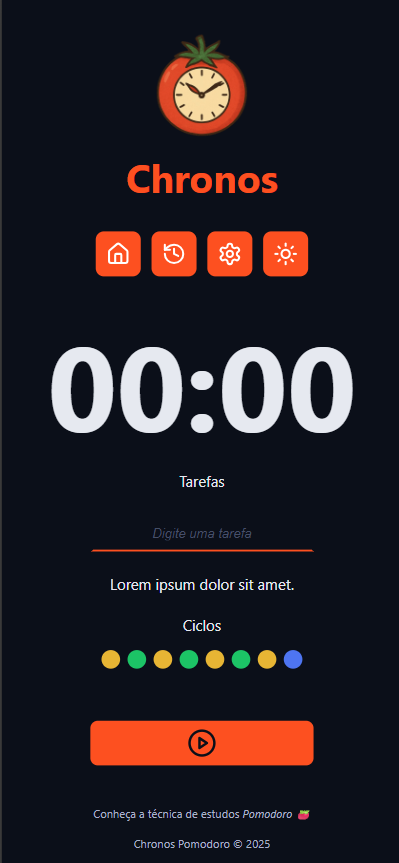
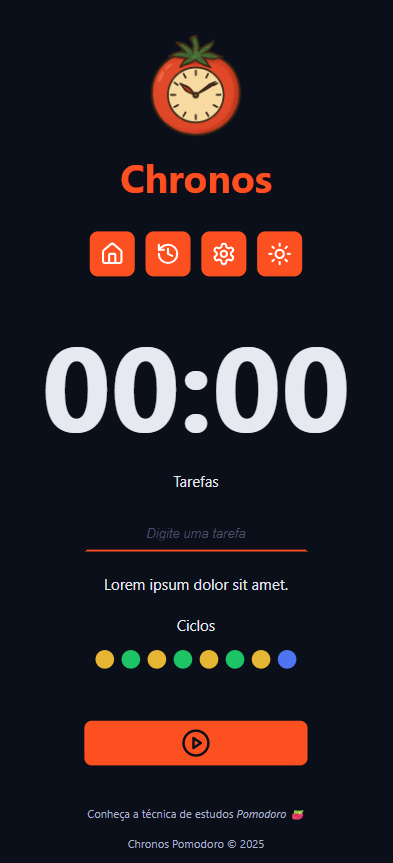
criado contexts separados

diff --git a/src/components/MainForm/index.tsx b/src/components/MainForm/index.tsx
@@ -2,23 +2,35 @@ import { PlayCircleIcon } from "lucide-react";
 import { Cycles } from "../Cycles";
 import { DefaultButton } from "../DefaultButton";
 import { DefaultInput } from "../DefaultInput";
+import { useState } from "react";
+
 
 
 export function MainForm() {
+    const [task, setTask] = useState('')
+
+    function handleCreateNewTask(event: React.FormEvent<HTMLFormElement>) {
+        event.preventDefault()
+    }
+
+
 
     return (
-        <form className="form" action="">
+        <form className="form" action="" onSubmit={handleCreateNewTask}>
             <div className="formRow">
-                <DefaultInput id="input"
+                <DefaultInput 
+                    id="input"
                     type="text"
                     labelText="Tarefas"
                     placeholder="Digite uma tarefa"
+                    value={task}
+                    onChange={e => setTask(e.target.value)}
 
                 />
             </div>
 
             <div className="formRow">
-                <p>Lorem ipsum dolor sit amet.</p>
+                <p>Próximo intervalo é de 25 min.</p>
             </div>
 
             <div className="formRow">

diff --git a/src/contexts/TaskContext/TaskContextProvider.tsx b/src/contexts/TaskContext/TaskContextProvider.tsx
@@ -1,0 +1,15 @@
+import { useState } from "react";
+import { TaskContext } from "./TaskContext";
+import { initialTaskState } from "./InitialTaskState";
+
+type TaskContextProviderProps = {
+    children: React.ReactNode;
+}
+export function TaskContextProvider({children}: TaskContextProviderProps){
+    const [state, setState] = useState(initialTaskState)
+    return (
+        <TaskContext.Provider value={{state, setState}}>
+            {children}
+        </TaskContext.Provider>
+    )
+}

diff --git a/src/contexts/TaskContext/TaskContext.tsx b/src/contexts/TaskContext/TaskContext.tsx
@@ -1,0 +1,17 @@
+import { createContext } from "react";
+import type { TaskStateModel } from "../../models/TaskStateModel";
+import { initialTaskState } from "./InitialTaskState";
+
+
+type TaskContextProps = {
+    state: TaskStateModel,
+    setState: React.Dispatch<React.SetStateAction<TaskStateModel>>
+}
+
+
+export const initialContextValue = {
+    state: initialTaskState,
+    setState: () => { },
+}
+
+export const TaskContext = createContext<TaskContextProps>(initialContextValue)

diff --git a/src/pages/Home/index.tsx b/src/pages/Home/index.tsx
@@ -3,12 +3,14 @@ import { CountDown } from "../../components/CountDown";
 import { MainForm } from "../../components/MainForm";
 import { MainTemplate } from "../../templates/MainTemplate";
 
-export function Home() {
 
+
+export function Home() {
+    
     return (
         <MainTemplate>
             <Container>
-                <CountDown />
+                <CountDown/>
             </Container>
 
             <Container>

diff --git a/src/contexts/TaskContext/InitialTaskState.ts b/src/contexts/TaskContext/InitialTaskState.ts
@@ -1,0 +1,14 @@
+import type { TaskStateModel } from "../../models/TaskStateModel";
+
+export const initialTaskState: TaskStateModel = {
+    tasks: [],
+    secondsRemaining: 0,
+    formattedSecondsRemaining: '00:00',
+    activedTask: null,
+    currentCycle: 0,
+    config: {
+        workTime: 25,
+        shortBreakTime: 5,
+        longBreakTime: 15,
+    }
+}

diff --git a/src/components/CountDown/index.tsx b/src/components/CountDown/index.tsx
@@ -1,8 +1,11 @@
+
 import styles from './style.module.css'
+import { useTaskContext } from '../../contexts/TaskContext/useTaskContext'
 
 export function CountDown() {
-
+   const { state } = useTaskContext()
+  
    return (
-      <div className={styles.container}>00:00</div>
+      <div className={styles.container}>{state.formattedSecondsRemaining}</div>
    )
 }

diff --git a/src/App.tsx b/src/App.tsx
@@ -1,11 +1,13 @@
 import { Home } from "./pages/Home";
-
 import './styles/theme.css';
 import './styles/global.css';
+import { TaskContextProvider } from "./contexts/TaskContext/TaskContextProvider";
+
 
 export function App() {
-
   return (
-    <Home />
+    <TaskContextProvider>
+      <Home />
+    </TaskContextProvider>
   )
 }

diff --git a/src/contexts/TaskContext/useTaskContext.ts b/src/contexts/TaskContext/useTaskContext.ts
@@ -1,0 +1,7 @@
+import { useContext } from "react";
+import { TaskContext } from "./TaskContext";
+
+
+export function useTaskContext(){
+    return useContext(TaskContext)
+}

diff --git a/README.md b/README.md
@@ -11,6 +11,7 @@
 <p align="center">
   <strong>Projeto desenvolvido com base no curso do professor Otávio Miranda</strong>
   <a href="https://www.udemy.com/course/curso-de-reactjs-nextjs-completo-do-basico-ao-avancado/?couponCode=KEEPLEARNINGBR" target="_blank">
+  <span>Clique aqui ou na imagem ao lado para ir ao curso.</span>
     <img src="/public/logo_otavio.png" alt="Curso Udemy" width="40"/>
   </a>
 </p>
